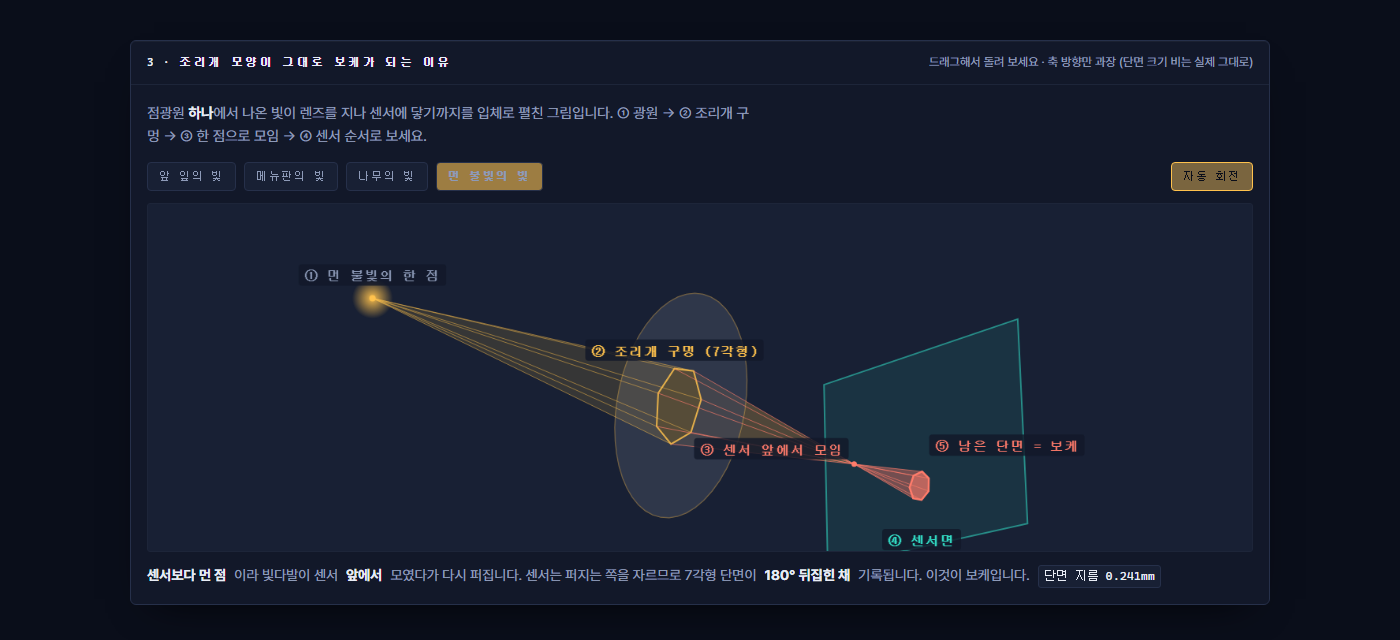
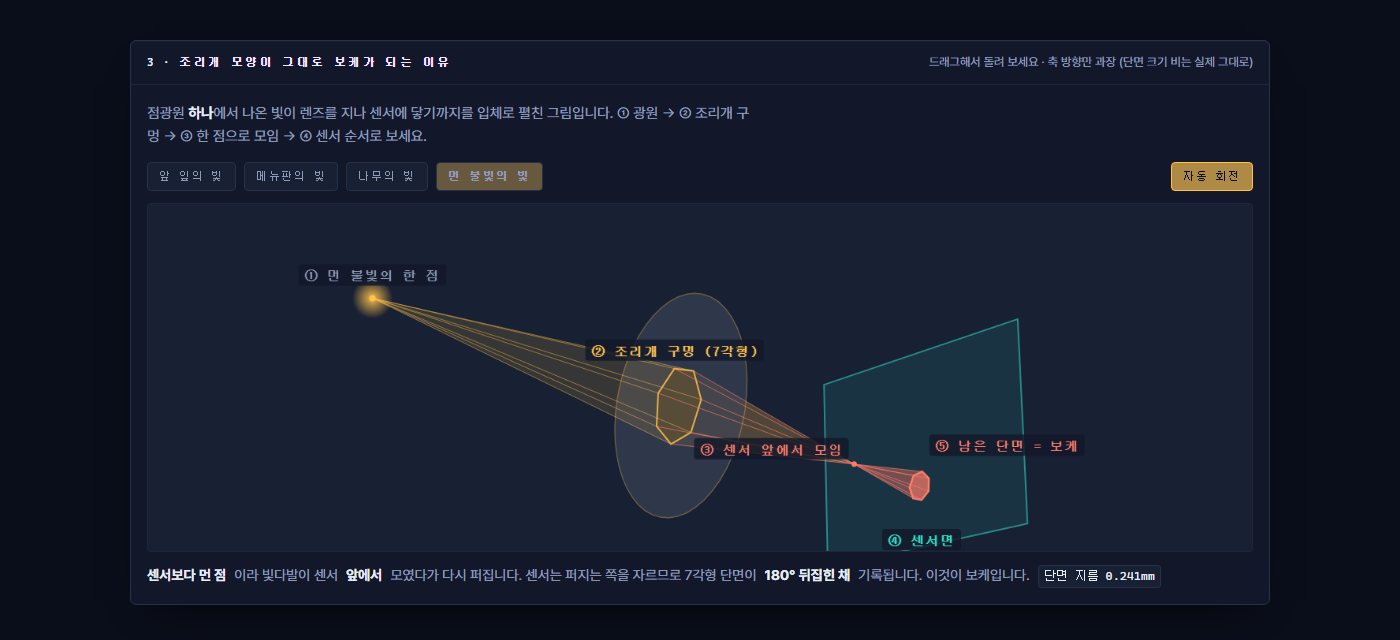
Pin cross-section scale so focus distance cannot resize lens or sensor
The px/mm scale was derived from the 135mm image distance at the current
focus distance, so it swung 2.06 to 3.10 px/mm as focus moved from 40cm
to 30m. Sensor half height and the lens both hang off that scale, so
dragging the focus slider alone resized the whole optical bench.

The scale is now a constant fixed once from the widest case the controls
allow (135mm focused at FD_MIN), so the sensor is 61.2px and the lens
52.1px in every combination of focal length and focus distance; only the
sensor position along the axis and the aperture opening move. Widens the
image side to 520px to hold the extreme, and pulls the object side in so
the farthest subject label no longer clips.

Changed region(s): [[0.3071, 0.25, 0.3993, 0.3125], [0.8293, 0.25, 0.8907, 0.3125]]

diff --git a/index.html b/index.html
@@ -733,11 +733,15 @@
      조리개 지름에도 같은 배율을 쓰므로, F값이 같으면 초점거리가 달라도 원뿔 각도가 같다
      (= 왜 F값이 밝기의 기준인지). 피사체별 상거리 "차이"만 따로 확대한다. */
   var rayEl = document.getElementById("rayDiagram");
-  var LENS_X = 380, AXIS_Y = 210, IMG_W = 420;
+  var LENS_X = 300, AXIS_Y = 210, IMG_W = 520;
+
+  // 화면 배율은 어떤 조작에도 흔들리면 안 되는 상수다.
+  // 가장 긴 렌즈(135mm)를 가장 가까이(FD_MIN) 맞췄을 때의 상거리가 상 쪽 폭에 딱 들어가도록 한 번만 정한다.
+  var S_PX = IMG_W / (1 / (1 / 135 - 1 / (FD_MIN * 1000)));
 
   function objX(d) {  // 로그 거리 → x 좌표
     var t = Math.log(Math.min(60, Math.max(0.4, d)) / 0.4) / Math.log(60 / 0.4);
-    return 335 - 307 * t;
+    return 258 - 205 * t;   // 왼쪽 끝 라벨이 잘리지 않도록 여백을 남긴다
   }
   function tri(x, y, dir, col) {   // 화살촉 (dir: -1 위, +1 아래)
     return '<polygon points="' + x + ',' + y + ' ' + (x - 5) + ',' + (y + dir * 10) +
@@ -761,9 +765,8 @@
     var f = state.focal, N = fNumber();
     var vF = imageDist(state.focusDist);
 
-    // 135mm일 때 상 쪽 폭을 다 쓰도록 배율 고정 → 초점거리를 바꾸면 센서가 눈에 띄게 움직인다
-    var vRef = 1 / (1 / 135 - 1 / (state.focusDist * 1000));
-    var s = IMG_W / vRef;
+    // 배율은 고정 상수. 조작에 따라 움직이는 것은 센서 "위치"와 구멍 크기뿐이다.
+    var s = S_PX;
     var sensorX = LENS_X + s * vF;
     var apR = Math.max(1.5, (f / N) / 2 * s);   // 조리개 반지름 (상거리와 같은 배율)
     var sensorHalf = 12 * s;                    // 센서 24mm의 절반 — 초점거리와 무관하게 고정
